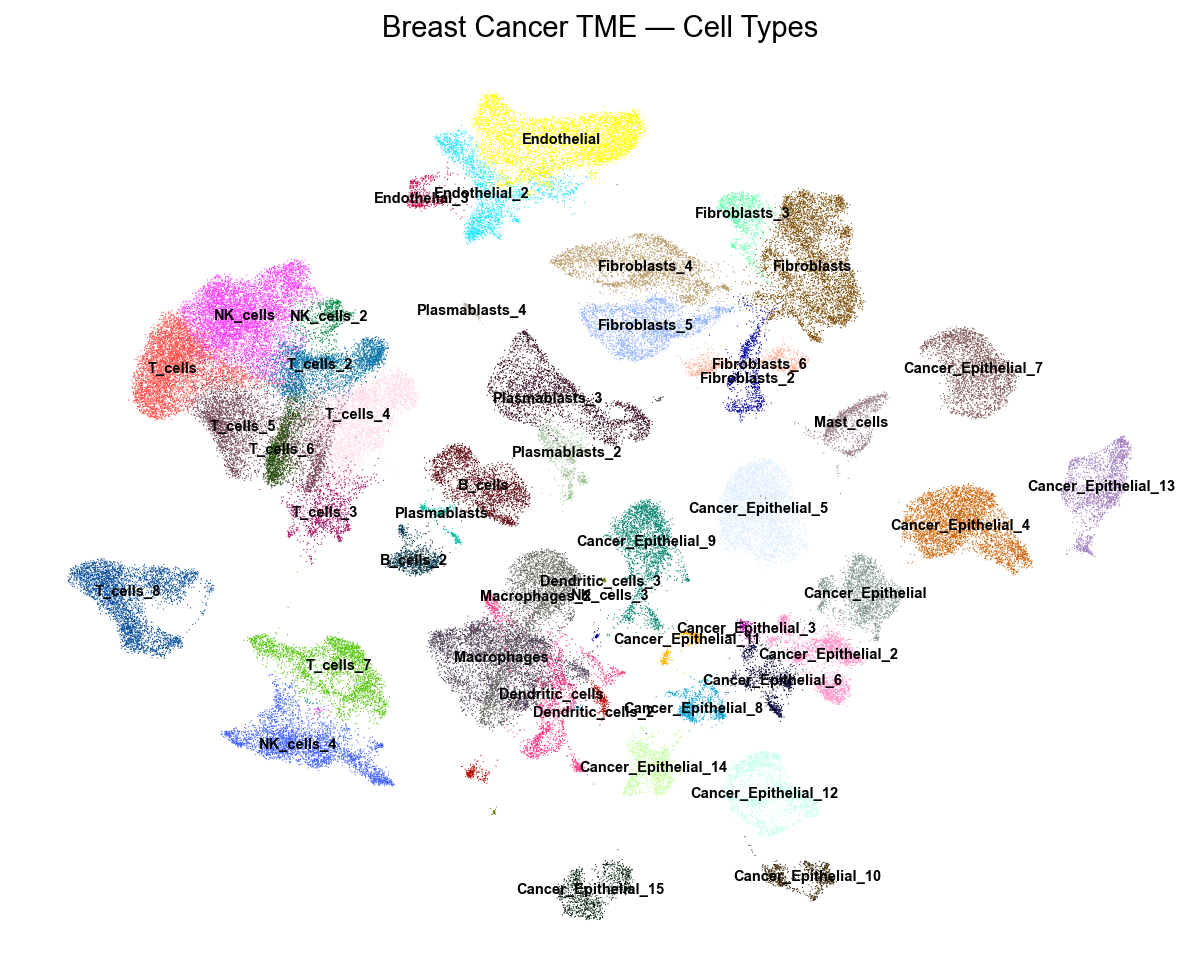
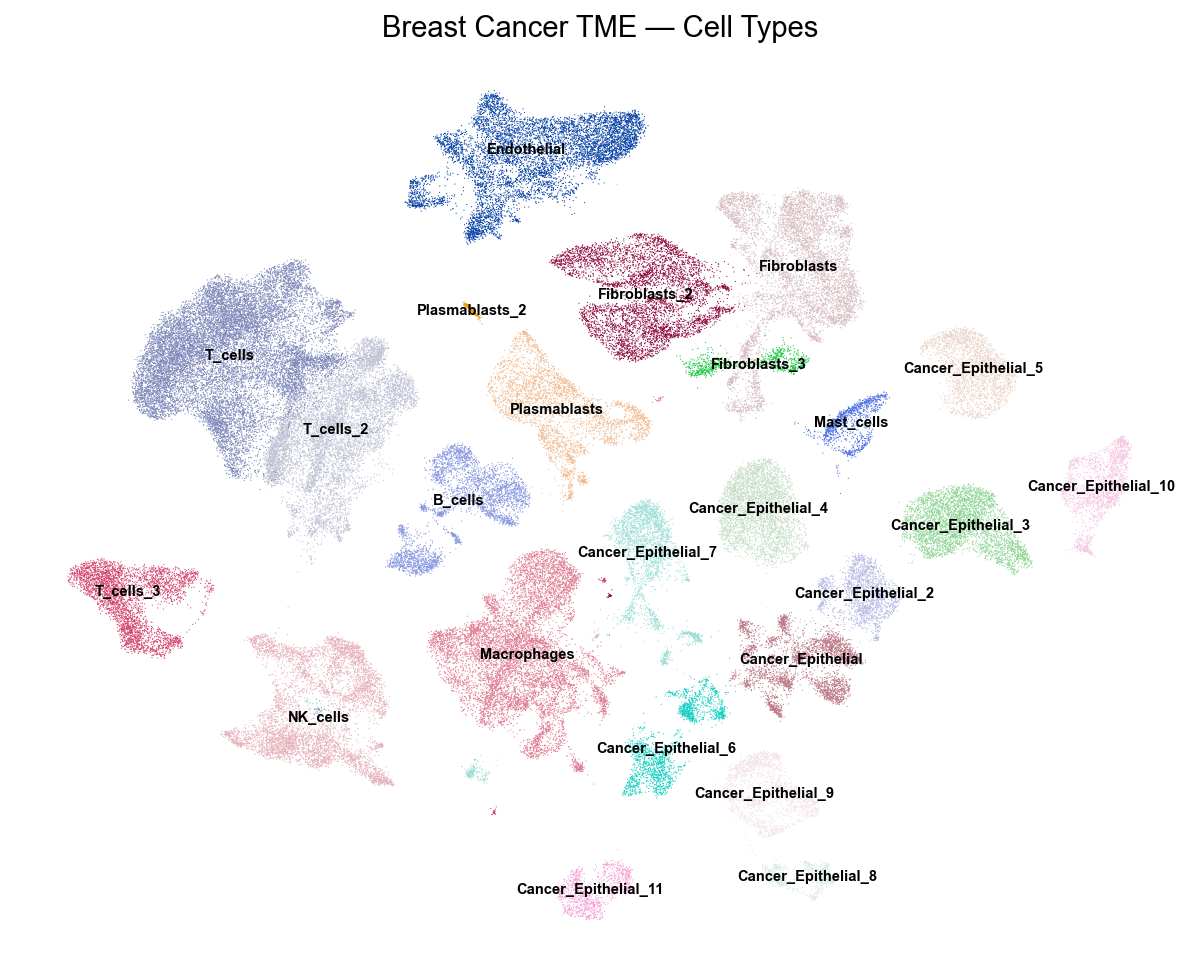
Add metadata integration for subtype and cell-type labels in UMAP plotting

diff --git a/scripts/02_clustering_and_annotation.py b/scripts/02_clustering_and_annotation.py
@@ -44,6 +44,7 @@ RESULTS_DIR = PROJECT_ROOT / "results"
 INPUT_H5AD = PROCESSED_DIR / "breast_cancer_qc.h5ad"
 OUTPUT_H5AD = PROCESSED_DIR / "breast_cancer_annotated.h5ad"
 PREPROCESSED_H5AD = PROCESSED_DIR / "breast_cancer_preprocessed.h5ad"
+METADATA_CSV = PROJECT_ROOT / "data" / "raw" / "Wu_etal_2021_BRCA_scRNASeq" / "metadata.csv"
 
 # ──────────────────────────────────────────────────────────────────────────────
 # Canonical marker genes for breast cancer TME cell types
@@ -94,7 +95,7 @@ def preprocess(adata: ad.AnnData) -> ad.AnnData:
 
     # ── Highly Variable Genes ─────────────────────────────────────────────
     print("[STEP] Selecting top 2,000 highly variable genes (Pearson residuals) …")
-    sc.pp.highly_variable_genes(
+    sc.experimental.pp.highly_variable_genes(
         adata, n_top_genes=2000, flavor="pearson_residuals",
         subset=False, layer="raw_counts",
     )
@@ -443,6 +444,27 @@ def plot_umaps(adata: ad.AnnData) -> None:
 
 
 # ──────────────────────────────────────────────────────────────────────────────
+# Metadata integration
+# ──────────────────────────────────────────────────────────────────────────────
+
+def _merge_metadata(adata: ad.AnnData) -> ad.AnnData:
+    """Join subtype and cell-type labels from Wu et al. metadata.csv into adata.obs."""
+    if "subtype" in adata.obs.columns:
+        return adata  # already merged (e.g. loaded from cached preprocessed h5ad)
+    if not METADATA_CSV.exists():
+        print(f"[WARN] metadata.csv not found at {METADATA_CSV}; subtype UMAP will be skipped.")
+        return adata
+    meta = pd.read_csv(METADATA_CSV, index_col=0)
+    cols = [c for c in ["subtype", "celltype_major", "celltype_minor"] if c in meta.columns]
+    adata.obs = adata.obs.join(meta[cols], how="left")
+    for c in cols:
+        if c in adata.obs.columns:
+            adata.obs[c] = adata.obs[c].astype("category")
+    print(f"[INFO] Merged metadata columns: {cols}")
+    return adata
+
+
+# ──────────────────────────────────────────────────────────────────────────────
 # Main
 # ──────────────────────────────────────────────────────────────────────────────
 
@@ -471,7 +493,9 @@ def main() -> None:
         print(f"[INFO] Loading cached preprocessed data from {PREPROCESSED_H5AD} …")
         adata = sc.read_h5ad(PREPROCESSED_H5AD)
         print(f"[INFO] Loaded: {adata.n_obs} cells × {adata.n_vars} genes")
+        adata = _merge_metadata(adata)
     else:
+        adata = _merge_metadata(adata)
         adata = preprocess(adata)
         adata.write_h5ad(PREPROCESSED_H5AD)
         print(f"[INFO] Saved preprocessed data → {PREPROCESSED_H5AD}")
